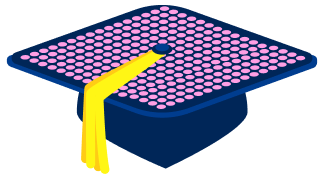
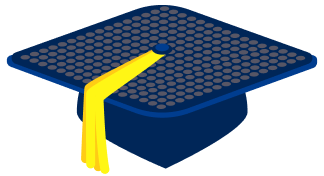
Added loading pages, updated graphics

Changed region(s): [[0.0617, 0.0284, 0.9568, 0.625]]

diff --git a/style.css b/style.css
@@ -107,6 +107,11 @@ p {
     margin: 0;
 }
 
+.button {
+    font-size: 16px;
+    font-weight: bold;
+}
+
 .about {
     display: grid;
     grid-template-columns: 1fr 3fr;
@@ -368,19 +373,19 @@ input[type=radio]:checked {
 
 /* Preset cards */
 #presets img{
-    width: 135px;
+    width: 140px;
 }
 
 #presets div{
     display: inline-block;
-    padding: 0.4rem 0.4rem 3rem 0.4rem;
+    padding: 0.4rem;
     margin: 1rem 0.4rem 0.2rem 0.4rem;
     background-color: #283D72;
     border-radius: 0.4rem;
 }
 
-/*Preset Popup */
-.popup {
+/*Preset Modal*/
+.modal {
     display: none; /* Hidden by default */
     position: fixed; /* Stay in place */
     z-index: 1; /* Sit on top */
@@ -393,13 +398,21 @@ input[type=radio]:checked {
 }
   
 /* Modal Content/Box */
-.popup-content {
+.modal-content {
     background-color: #283D72;;
     margin: 15% auto; /* 15% from the top and centered */
     padding: 20px;
     border-style: none;
     width: 80%; /* Could be more or less, depending on screen size */
   }
+
+/* Connect to Cap button */
+.connect {
+    color: #6FAE3D;
+    text-align: center;
+    font-size: 1.2rem;
+    font-weight: bolder;
+}
   
 /* The Close Button */
 .close {
@@ -407,4 +420,17 @@ input[type=radio]:checked {
     text-align: center;
     font-size: 1.2rem;
     font-weight: bold;
+}
+
+/* Cap Connecting */
+#loading {
+    text-align: center;
+    width: 70%;
+    margin: auto;
+}
+
+.message {
+    margin-top: 0.5rem;
+    margin-left: auto;
+    margin-right: auto;
 }

diff --git a/unsuccessful.html b/unsuccessful.html
@@ -1,0 +1,26 @@
+<!DOCTYPE html>
+<html lang="en">
+
+<head>
+    <meta charset="utf-8" />
+    <title>BrightMinds</title>
+    <link rel="preconnect" href="https://fonts.gstatic.com">
+    <link href="https://fonts.googleapis.com/css2?family=Manrope:wght@200;300;400;500;600;700;800&display=swap" rel="stylesheet">
+    <link rel="stylesheet" type="text/css" href="style.css">
+    <meta name="viewport" content="width=device-width, minimum-scale=1.0, maximum-scale=1.0" />
+    <link rel="apple-touch-icon" href="assets/apple-touch-icon.png">
+    <link rel="icon" href="assets/apple-touch-icon.png" type="image">
+</head>
+
+<body>
+    <div class="loading">
+        <img src="assets/loading-cap.png">
+    </div>
+    <div id="message">
+        <h1>Connection Failed</h1>
+        <p>Try placing your cap closer to your phone</p>
+        <div>
+            <button>Retry</button>
+    </div>
+    </div>
+</body>

diff --git a/preset.html b/preset.html
@@ -9,6 +9,7 @@
     <link rel="stylesheet" type="text/css" href="style.css">
     <meta name="viewport" content="width=device-width, minimum-scale=1.0, maximum-scale=1.0" />
     <link rel="apple-touch-icon" href="assets/apple-touch-icon.png">
+    <link rel="icon" href="assets/apple-touch-icon.png" type="image">
 </head>
 
 <body>
@@ -34,6 +35,15 @@
         </div>
         <section id="presets">
         </section>
+
+        <div id="trial">
+                <img src="assets/presets/tiger.png" style="width:140px;"
+                onclick="document.getElementById('modal01').style.display='block'">
+              
+                <div id="modal01" class="modal" onclick="this.style.display='none'">
+                    <img src="assets/presets/tiger.png" style="width:60%; ">
+                  </div>
+        </div>
 
         <!-- <div class="pageNumbers">
             <p>1</p>

diff --git a/succesful.html b/succesful.html
@@ -1,0 +1,23 @@
+<!DOCTYPE html>
+<html lang="en">
+
+<head>
+    <meta charset="utf-8" />
+    <title>BrightMinds</title>
+    <link rel="preconnect" href="https://fonts.gstatic.com">
+    <link href="https://fonts.googleapis.com/css2?family=Manrope:wght@200;300;400;500;600;700;800&display=swap" rel="stylesheet">
+    <link rel="stylesheet" type="text/css" href="style.css">
+    <meta name="viewport" content="width=device-width, minimum-scale=1.0, maximum-scale=1.0" />
+    <link rel="apple-touch-icon" href="assets/apple-touch-icon.png">
+    <link rel="icon" href="assets/apple-touch-icon.png" type="image">
+</head>
+
+<body>
+    <div class="loading">
+        <img src="assets/successful-state-cap.png">
+    </div>
+    <div id="message">
+        <h1>Connection Successful</h1>
+        <p>Congratulations, New Grad!</p>
+    </div>
+</body>

diff --git a/loading.html b/loading.html
@@ -1,0 +1,22 @@
+<!DOCTYPE html>
+<html lang="en">
+
+<head>
+    <meta charset="utf-8" />
+    <title>BrightMinds</title>
+    <link rel="preconnect" href="https://fonts.gstatic.com">
+    <link href="https://fonts.googleapis.com/css2?family=Manrope:wght@200;300;400;500;600;700;800&display=swap" rel="stylesheet">
+    <link rel="stylesheet" type="text/css" href="style.css">
+    <meta name="viewport" content="width=device-width, minimum-scale=1.0, maximum-scale=1.0" />
+    <link rel="apple-touch-icon" href="assets/apple-touch-icon.png">
+    <link rel="icon" href="assets/apple-touch-icon.png" type="image">
+</head>
+
+<body>
+    <div class="loading">
+        <img src="assets/loading-cap.png">
+    </div>
+    <div id="message">
+        <h1>Hold on to your caps while we connect to your light board!</h1>
+    </div>
+</body>

diff --git a/scripts/script.js b/scripts/script.js
@@ -1,5 +1,5 @@
 let presets = document.querySelector("#presets");
-let images=["assets/presets/pikachu.png","assets/presets/cOf2021.png","assets/presets/IMadeIt.png","assets/presets/tiger.png","assets/presets/RITGrad.png"]
+let images=["assets/presets/clownfish.png","assets/presets/firework.png","assets/presets/rainbow.png","assets/presets/chemistry.png","assets/presets/2021grad.png"]
 
 let page=0;
 

diff --git a/about.html b/about.html
@@ -9,6 +9,7 @@
     <link rel="stylesheet" type="text/css" href="style.css">
     <meta name="viewport" content="width=device-width, minimum-scale=1.0, maximum-scale=1.0" />
     <link rel="apple-touch-icon" href="assets/apple-touch-icon.png">
+    <link rel="icon" href="assets/apple-touch-icon.png" type="image">
 </head>
 
 <body>

diff --git a/designLanding.html b/designLanding.html
@@ -9,6 +9,7 @@
     <link rel="stylesheet" type="text/css" href="style.css">
     <meta name="viewport" content="width=device-width, minimum-scale=1.0, maximum-scale=1.0" />
     <link rel="apple-touch-icon" href="assets/apple-touch-icon.png">
+    <link rel="icon" href="assets/apple-touch-icon.png" type="image">
 </head>
 
 <body>

diff --git a/index.html b/index.html
@@ -9,6 +9,7 @@
     <link rel="stylesheet" type="text/css" href="style.css">
     <meta name="viewport" content="width=device-width, minimum-scale=1.0, maximum-scale=1.0" />
     <link rel="apple-touch-icon" href="assets/apple-touch-icon.png">
+    <link rel="icon" href="assets/apple-touch-icon.png" type="image">
 </head>
 
 <body>

diff --git a/instructions.html b/instructions.html
@@ -9,6 +9,7 @@
     <link rel="stylesheet" type="text/css" href="style.css">
     <meta name="viewport" content="width=device-width, minimum-scale=1.0, maximum-scale=1.0" />
     <link rel="apple-touch-icon" href="assets/apple-touch-icon.png">
+    <link rel="icon" href="assets/apple-touch-icon.png" type="image">
 </head>
 
 <body>

diff --git a/create.html b/create.html
@@ -14,6 +14,7 @@
 
     <!-- <meta name="viewport" content="width=device-width, minimum-scale=1.0, maximum-scale=1.0" /> -->
     <link rel="apple-touch-icon" href="assets/apple-touch-icon.png">
+    <link rel="icon" href="assets/apple-touch-icon.png" type="image">
 </head>
 
 <body>
